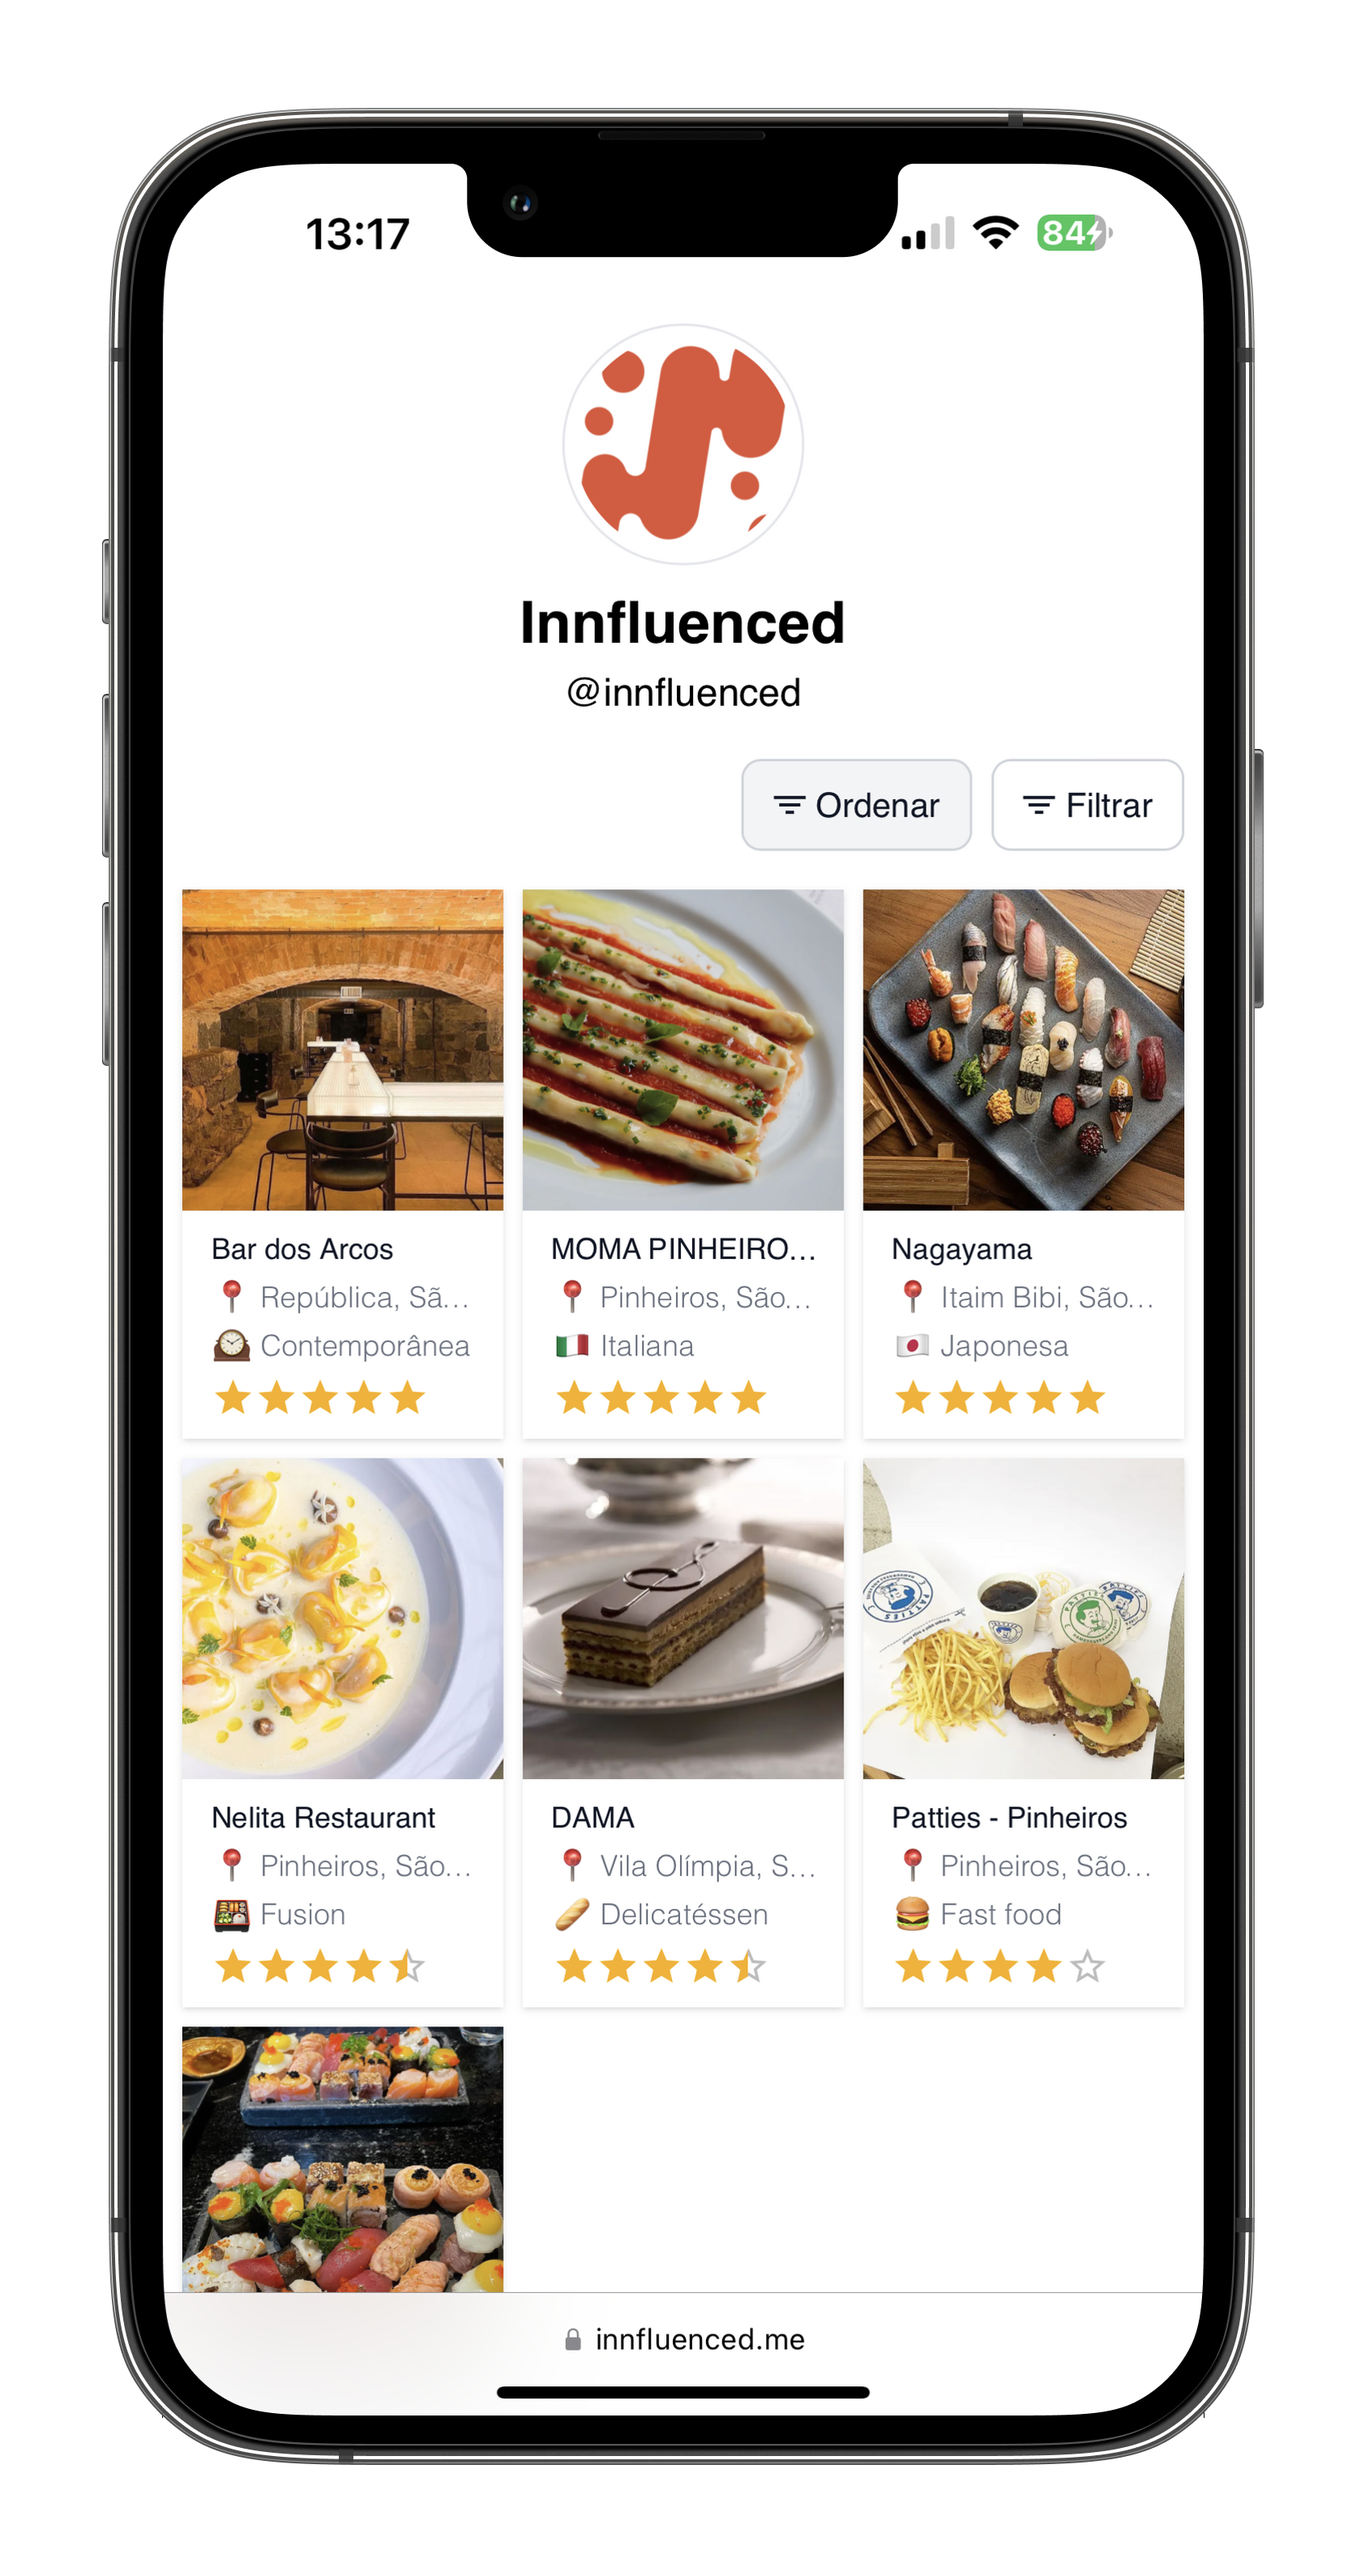
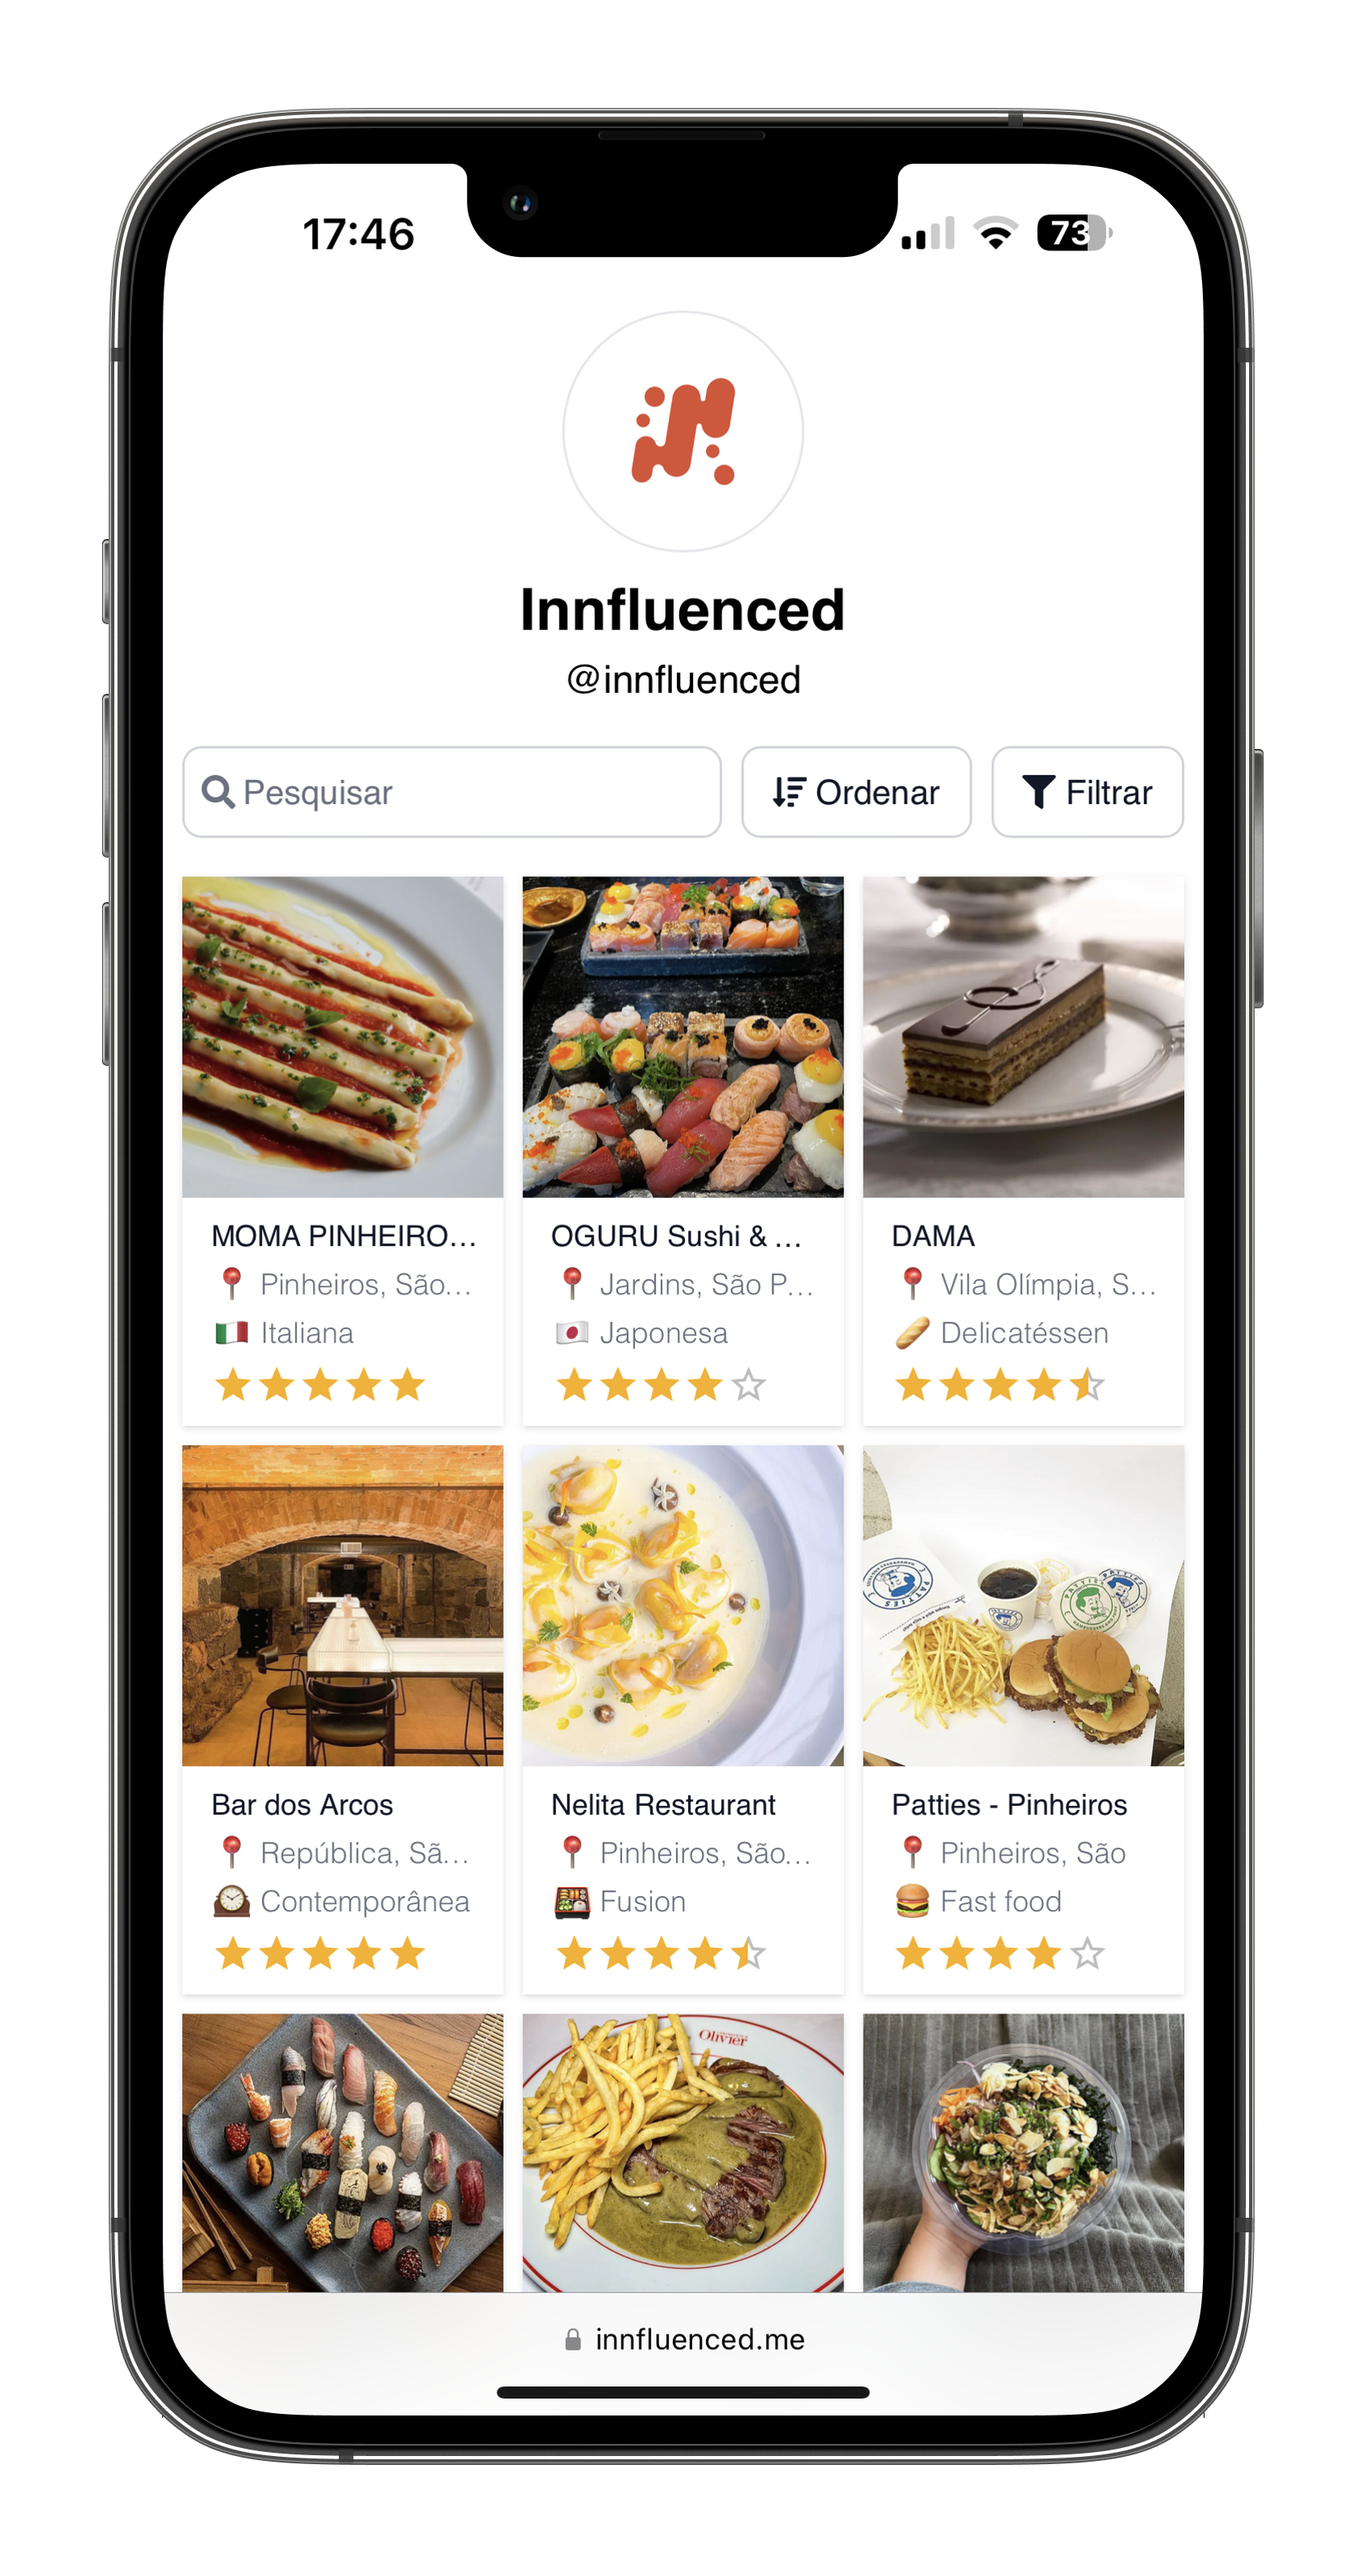
asdf

Changed region(s): [[0.1235, 0.1246, 0.8955, 0.9034], [0.7411, 0.0623, 0.8029, 0.1246], [0.2162, 0.0623, 0.3088, 0.0935]]

diff --git a/pages/index.tsx b/pages/index.tsx
@@ -73,7 +73,7 @@ export default function Main() {
 				</div>
 				<div className="relative h-[45em] w-full md:block">
 					<Image
-						src="/iphone2.png"
+						src="/iphone.png"
 						// src={"/product2.png"}
 						alt="dashboard image"
 						fill
